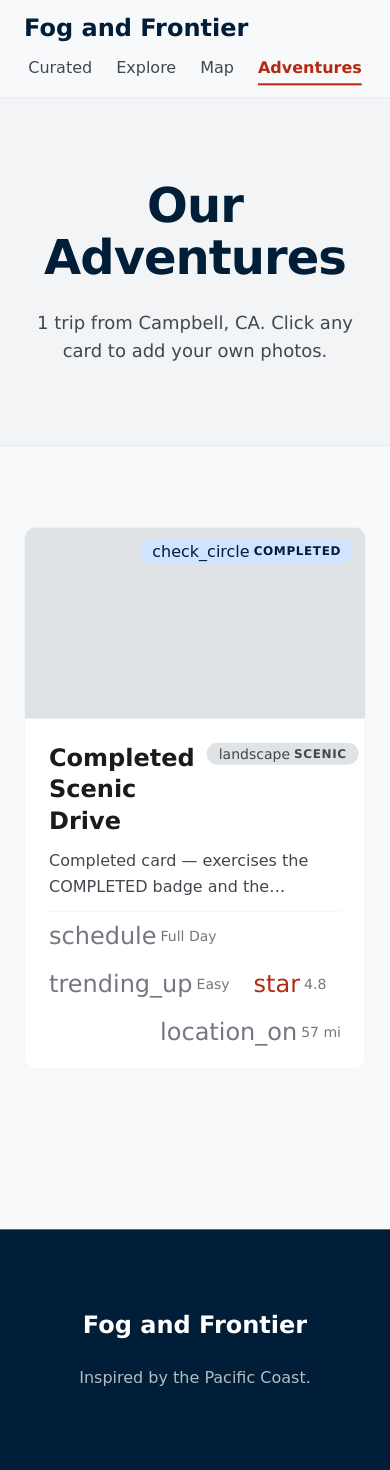
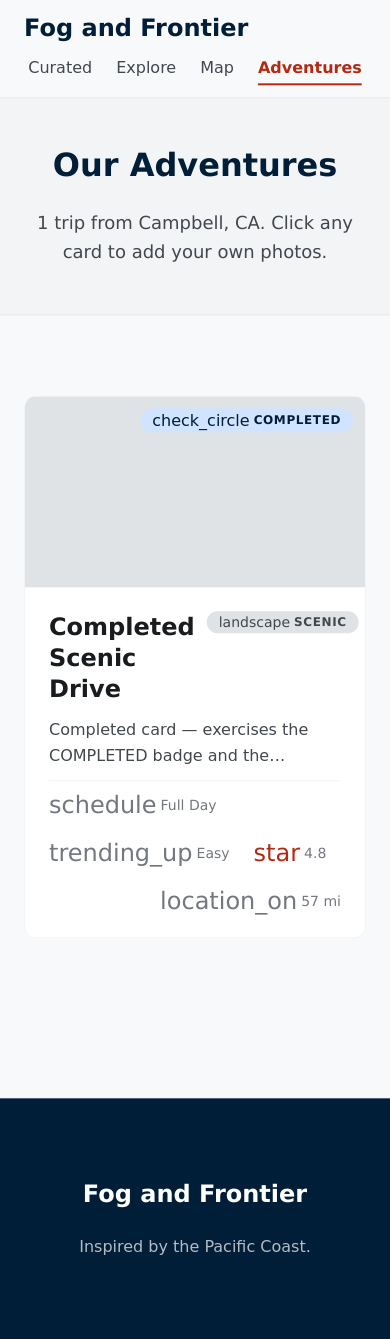
feat(phase-b): responsive hero + 390px spacing (#1)
Closes part of #1.

- Heroes step down from text-display (48px) to text-headline-lg (32px) at mobile widths via per-utility md:text-display variant. py-xl also softens to py-lg on mobile so filter pills stay above the fold.
- Filter/form spacing tightens to gap-sm at mobile (CuratedAdventures filter row, ActivityDetail stat strip). AddActivity review grid stacks single-column at <640px. Explore Loading/Error/Empty states soften vertical padding and gain horizontal padding where missing.
- Refreshed mobile + desktop Playwright baselines.

diff --git a/src/pages/Explore.tsx b/src/pages/Explore.tsx
@@ -158,9 +158,9 @@ export function Explore() {
 
   return (
     <>
-      <section className="px-margin py-xl lg:py-24 bg-surface-container-low border-b border-outline-variant/20">
+      <section className="px-margin py-lg md:py-xl lg:py-24 bg-surface-container-low border-b border-outline-variant/20">
         <div className="max-w-4xl mx-auto text-center space-y-md">
-          <h1 className="font-display text-display text-primary">Explore</h1>
+          <h1 className="font-display text-headline-lg md:text-display text-primary">Explore</h1>
           <p className="font-body-lg text-body-lg text-on-surface-variant max-w-2xl mx-auto">
             What's happening around {HOME_LOCATION.label} right now? Pick a
             window and let Gemini search for things to do.
@@ -283,7 +283,7 @@ function EventCard({ event }: { event: DiscoverEvent }) {
 
 function LoadingState() {
   return (
-    <div className="text-center py-xl px-md space-y-md max-w-2xl mx-auto">
+    <div className="text-center py-lg md:py-xl px-md space-y-md max-w-2xl mx-auto">
       <div className="w-12 h-12 mx-auto rounded-full border-4 border-primary border-t-transparent animate-spin" />
       <p className="font-body-lg text-body-lg text-on-surface">
         Searching the web for upcoming events…
@@ -304,7 +304,7 @@ function ErrorState({
   onRetry: () => void;
 }) {
   return (
-    <div className="text-center py-xl space-y-md">
+    <div className="text-center px-md py-lg md:py-xl space-y-md">
       <p className="font-body-lg text-error">Something went wrong.</p>
       <p className="font-body-md text-on-surface-variant max-w-xl mx-auto">
         {message}
@@ -322,7 +322,7 @@ function ErrorState({
 
 function EmptyHero() {
   return (
-    <div className="text-center py-xl px-md space-y-sm text-on-surface-variant max-w-2xl mx-auto">
+    <div className="text-center py-lg md:py-xl px-md space-y-sm text-on-surface-variant max-w-2xl mx-auto">
       <span
         className="material-symbols-outlined text-outline block"
         style={{ fontSize: 64, lineHeight: 1 }}

diff --git a/src/pages/CuratedAdventures.tsx b/src/pages/CuratedAdventures.tsx
@@ -73,9 +73,9 @@ export function CuratedAdventures() {
 
   return (
     <>
-      <section className="relative px-margin py-xl lg:py-24 bg-surface-container-low border-b border-outline-variant/20">
+      <section className="relative px-margin py-lg md:py-xl lg:py-24 bg-surface-container-low border-b border-outline-variant/20">
         <div className="max-w-4xl mx-auto text-center space-y-lg">
-          <h1 className="font-display text-display text-primary">
+          <h1 className="font-display text-headline-lg md:text-display text-primary">
             Curated Adventures
           </h1>
           <p className="font-body-lg text-body-lg text-on-surface-variant max-w-2xl mx-auto">
@@ -102,7 +102,7 @@ export function CuratedAdventures() {
       {/* Sticky only on md+; on mobile the header wraps to two rows so a
           second sticky bar would eat too much vertical space. */}
       <section className="border-b border-outline-variant/20 bg-surface px-margin py-md md:sticky md:top-20 z-40 backdrop-blur-xl">
-        <div className="max-w-screen-2xl mx-auto flex flex-wrap items-center gap-md">
+        <div className="max-w-screen-2xl mx-auto flex flex-wrap items-center gap-sm md:gap-md">
           <FilterPill icon="location_on">
             <select
               value={String(maxDistance)}

diff --git a/src/pages/Adventures.tsx b/src/pages/Adventures.tsx
@@ -23,9 +23,9 @@ export function Adventures() {
 
   return (
     <>
-      <section className="px-margin py-xl lg:py-24 bg-surface-container-low border-b border-outline-variant/20">
+      <section className="px-margin py-lg md:py-xl lg:py-24 bg-surface-container-low border-b border-outline-variant/20">
         <div className="max-w-4xl mx-auto text-center space-y-md">
-          <h1 className="font-display text-display text-primary">
+          <h1 className="font-display text-headline-lg md:text-display text-primary">
             Our Adventures
           </h1>
           <p className="font-body-lg text-body-lg text-on-surface-variant max-w-2xl mx-auto">

diff --git a/src/components/ActivityDetail.tsx b/src/components/ActivityDetail.tsx
@@ -135,7 +135,7 @@ export function ActivityDetail({ activity: initial, onClose, showUploads }: Prop
             </button>
           </div>
 
-          <div className="flex flex-wrap gap-md text-on-surface-variant">
+          <div className="flex flex-wrap gap-sm md:gap-md text-on-surface-variant">
             <Stat icon="location_on" label={`${miles.toFixed(1)} mi from ${HOME_LOCATION.label}`} />
             <Stat
               icon="schedule"

diff --git a/src/components/AddActivity.tsx b/src/components/AddActivity.tsx
@@ -405,7 +405,7 @@ function ReviewStep({
         />
       </Field>
 
-      <div className="grid grid-cols-2 gap-md">
+      <div className="grid grid-cols-1 sm:grid-cols-2 gap-md">
         <Field label="Category">
           <select
             value={draft.category}

diff --git a/src/pages/Map.tsx b/src/pages/Map.tsx
@@ -65,7 +65,7 @@ export function Map() {
       <section className="px-margin py-lg bg-surface-container-low border-b border-outline-variant/20">
         <div className="max-w-screen-2xl mx-auto flex items-baseline justify-between flex-wrap gap-md">
           <div>
-            <h1 className="font-display text-display text-primary">Map</h1>
+            <h1 className="font-display text-headline-lg md:text-display text-primary">Map</h1>
             <p className="font-body-md text-on-surface-variant">
               {all.length} place{all.length === 1 ? '' : 's'} ·{' '}
               {completedCount} completed · home base{' '}